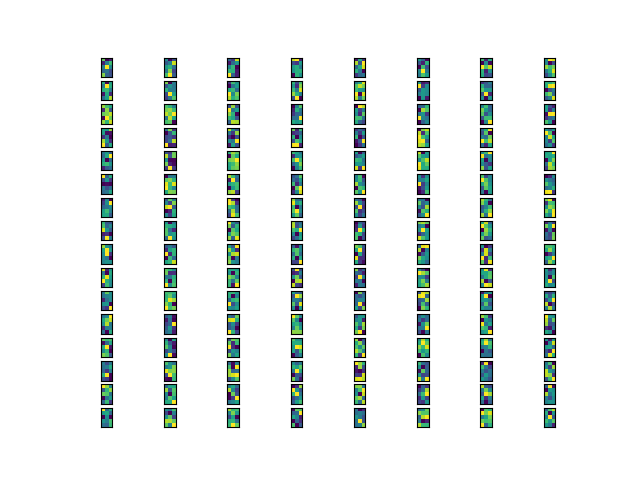
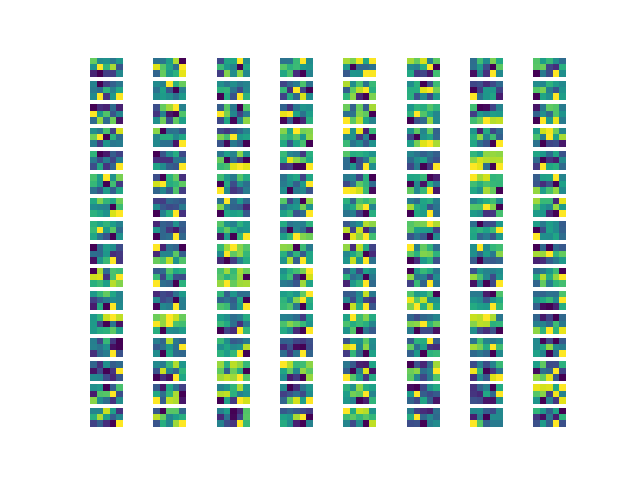
Add faster trading and better visualization

diff --git a/trade_faster.py b/trade_faster.py
@@ -18,7 +18,7 @@ getters = gt
 ts = get_tickers()
 #ts = gt.get_tickers_filtered(mktcap_min=1000)
 print(len(ts))
-ts = sorted(list(set(ts)), key=lambda x: len(x))
+ts = sorted(list(set(ts)), key=lambda x: len(x))[:250]
 d = {0: "HOLD", 1: "BUY", 2: "SELL"}
 tickers = [yf.Ticker(a) for a in ts]
 agent = Agent(30, model_name=sys.argv[1])
@@ -27,6 +27,7 @@ agent.first_iter = False
 
 buys = []
 sells = []
+states, names = [], []
 for t in range(len(tickers)):
     try:
         hist = tickers[t].history(period="3mo")
@@ -38,26 +39,32 @@ for t in range(len(tickers)):
             dc[key] = list(hist[key])[-30:]
         hist = get_stock_data("", d=dc)
         #print(hist)
-        state = get_state(hist, 30, 30)
+        if t%50==0: print("{}/{}".format(t, len(tickers)), end='\r')
+        states.append(get_state(hist, 30, 30))
+        names.append(ts[t])
         #print(state)
-        tup = agent.act(state, True)
-        #print(state)
-        print("ticker: {} | {} | {}".format(ts[t], d[tup[0]], tup[1]))
-        if tup[0]==1:
-            buys.append((ts[t], tup[1]))
-        elif tup[0]==2:
-            sells.append((ts[t], tup[1]))
-    except Exception as e:
-        if e is KeyboardInterrupt: exit()
-        print("ticker: {} | ERROR".format(ts[t]))
+    except: pass
 
-buys.sort(key=lambda q: q[1], reverse=True)
+tups = agent.act_bulk(states, True)
+for t in range(len(tups[0])):
+        #print(state)
+        tup = (tups[0][t], tups[1][t])
+        print("ticker: {} | {} | {}".format(names[t], d[tup[0]], tup[1]))
+        if tup[0]==1:
+            buys.append((names[t], tup[1]))
+        elif tup[0]==2:
+            sells.append((names[t], tup[1]))
+
+
+buys.sort(key=lambda q: q[1], reverse=True)[:5]
 
 if len(sys.argv)>2 and sys.argv[2]=="trade":
 
     with open("keys.txt", "r") as keys:
         ks = keys.read().split()
         api = tradeapi.REST(ks[0], ks[1], 'https://paper-api.alpaca.markets', api_version='v2')
+    clock = api.get_clock()
+    if not clock.is_open: exit()
     for item in sells:
         acc = api.get_account()
         try:

diff --git a/vis.py b/vis.py
@@ -6,13 +6,14 @@ import sys
 
 model = tf.keras.models.load_model("models/"+sys.argv[1])
 filter = model.layers[2].get_weights()[0]
-
+print(filter.shape)
 fig, axes = plt.subplots(16, 8)
 
 for a in range(128):
 	ax = axes.flatten()[a]
-	ax.imshow(np.reshape(filter, (128, 5, 3))[a])
+	ax.imshow(filter[:,:,a])
 	ax.set_xticks([])
 	ax.set_yticks([])
+	ax.axis('off')
 plt.savefig("vis.png")
 #print(np.reshape(filter, (128, 5, 3)).shape)
